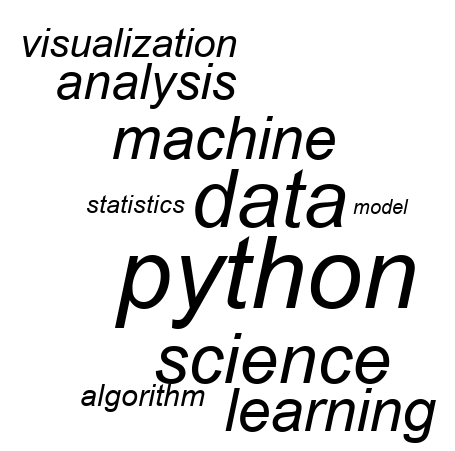
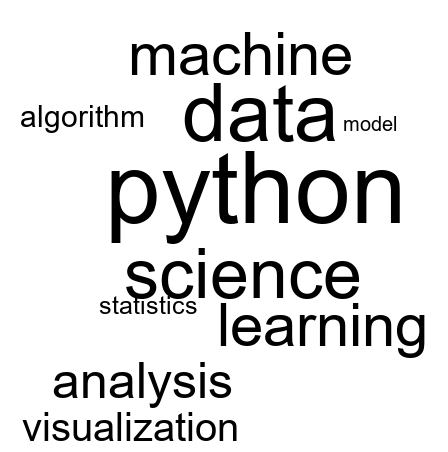
Fixed sizing to improve density of greedy layout results

Changed region(s): [[0.0312, 0.0621, 0.9688, 0.9933]]

diff --git a/truewordcloud.py b/truewordcloud.py
@@ -566,12 +566,12 @@ class TrueWordCloud:
 
                 self._last_attempts = attempt + 1
 
-                if mask_allowed is not None:
-                    mask_img_to_save = PILImage.fromarray(
-                        np.where(mask_allowed, 0, 255).astype(np.uint8),
-                        mode="L",
-                    )
-                    mask_img_to_save.save("truewordcloud_mask_allowed.png")
+                # if mask_allowed is not None:
+                #     mask_img_to_save = PILImage.fromarray(
+                #         np.where(mask_allowed, 0, 255).astype(np.uint8),
+                #         mode="L",
+                #     )
+                #     mask_img_to_save.save("truewordcloud_mask_allowed.png")
                 return placed
 
             # Record failure info (non-fatal), then scale up and retry
@@ -682,9 +682,13 @@ class TrueWordCloud:
     ) -> Optional[Tuple[float, float]]:
         """Spiral search constrained by mask (ink pixels must lie within allowed region)."""
         max_radius = int(0.75 * max(mask_allowed.shape))
-        radius_step = 5
+
         word_size = math.sqrt(word_box.width * word_box.height)
-        angle_step = max(5, min(30, int(word_size / self.angle_divisor)))
+        # Finer radial sampling for large words -> higher packing density
+        radius_step = max(1, min(5, int(word_size / 80)))
+
+        word_size = math.sqrt(word_box.width * word_box.height)
+        angle_step = max(3, min(15, int(word_size / self.angle_divisor)))
 
         for radius in range(0, max_radius, radius_step):
             for angle in range(0, 360, angle_step):
@@ -714,6 +718,11 @@ class TrueWordCloud:
     ) -> Optional[Tuple[float, float]]:
         """Spiral search without mask."""
         max_radius = 2000
+
+        word_size = math.sqrt(word_box.width * word_box.height)
+        # Finer radial sampling for large words -> higher packing density
+        radius_step = max(1, min(5, int(word_size / 80)))
+
         radius_step = 5
         word_size = math.sqrt(word_box.width * word_box.height)
         angle_step = max(5, min(30, int(word_size / self.angle_divisor)))
@@ -1041,20 +1050,66 @@ class TrueWordCloud:
 
         # Calculate bounding box
         min_x, min_y, max_x, max_y = self._calculate_bounding_box(word_boxes)
-        self._last_bbox = (min_x, min_y, max_x, max_y)
 
-        # Render
-        padding = 20
-        width = int(max_x - min_x) + 2 * padding
-        height = int(max_y - min_y) + 2 * padding
-        self._last_canvas_size = (width, height)
+        # If drawing an outline, ensure bbox includes the mask extents too
+        # if mask_outline and self._mask_used_allowed is not None:
+        #     mh, mw = self._mask_used_allowed.shape
+        #     mask_cx, mask_cy = mw // 2, mh // 2
+
+        #     # Mask extents in wordcloud coords.
+        #     # Left/top are -center; right/bottom are + (size - center)
+        #     # Use -1 on right/bottom if you want exact pixel extent; leaving it as below is fine with ceil/+1.
+        #     mask_min_x = -mask_cx
+        #     mask_min_y = -mask_cy
+        #     mask_max_x = mw - mask_cx
+        #     mask_max_y = mh - mask_cy
+
+        #     min_x = min(min_x, mask_min_x)
+        #     min_y = min(min_y, mask_min_y)
+        #     max_x = max(max_x, mask_max_x)
+        #     max_y = max(max_y, mask_max_y)
+
+        if mask_outline and self._mask_used_allowed is not None:
+            mh, mw = self._mask_used_allowed.shape
+            mask_cx, mask_cy = mw // 2, mh // 2
+
+            # Tight bbox around the allowed region (or use outline if you prefer)
+            ys, xs = np.where(self._mask_used_allowed)
+            if len(xs) > 0:
+                min_mx, max_mx = xs.min(), xs.max()
+                min_my, max_my = ys.min(), ys.max()
+
+                # Convert mask pixel coords -> wordcloud coords
+                min_x = min_mx - mask_cx
+                max_x = max_mx - mask_cx
+                min_y = min_my - mask_cy
+                max_y = max_my - mask_cy
+
+        # Canonicalize bbox to integer pixel bounds (avoids truncation + off-by-one)
+        min_xi = int(np.floor(min_x))
+        min_yi = int(np.floor(min_y))
+        max_xi = int(np.ceil(max_x))
+        max_yi = int(np.ceil(max_y))
+
+        self._last_bbox = (min_xi, min_yi, max_xi, max_yi)
+
+        base_padding = 20
+
+        # If drawing an outline, reserve extra margin so it can't be clipped
+        outline_extra = (mask_outline_width // 2) + 2 if mask_outline else 0
+        pad = base_padding + outline_extra
+
+        width = (max_xi - min_xi + 1) + 2 * pad
+        height = (max_yi - min_yi + 1) + 2 * pad
 
         image = PILImage.new("RGB", (width, height), self.background_color)
         draw = PILImageDraw.Draw(image)
 
-        offset_x = -min_x + padding
-        offset_y = -min_y + padding
-        self._last_offsets = (offset_x, offset_y, padding)
+        offset_x = -min_xi + pad
+        offset_y = -min_yi + pad
+        self._last_offsets = (offset_x, offset_y, pad)  # store actual pad used
+        self._last_canvas_size = (width, height)
+        self._last_bbox = (min_xi, min_yi, max_xi, max_yi)
 
         for wb in word_boxes:
             if self.font_path == "__PIL_DEFAULT__":
@@ -1073,26 +1128,41 @@ class TrueWordCloud:
             if outline_src is not None:
                 image = self._overlay_mask_outline(
                     image=image,
-                    mask_allowed=self._mask_used_allowed,  # <-- IMPORTANT
-                    used_bbox=(min_x, min_y, max_x, max_y),
-                    padding=padding,
+                    mask_allowed=self._mask_used_allowed,
+                    used_bbox=(min_xi, min_yi, max_xi, max_yi),
+                    padding=pad,  # <-- IMPORTANT: use pad, not base_padding
                     outline_color=mask_outline_color,
                     outline_width=mask_outline_width,
                 )
 
         return image
 
+    def save_mask_outline_png(
+        self, mask_allowed: np.ndarray, filename: str = "mask_outline_debug.png"
+    ):
+        """
+        Save the outline of the allowed mask as a PNG for visual debugging.
+        White = outline, black = background.
+        """
+        from PIL import Image as PILImage
+        from scipy.ndimage import binary_erosion
+        import numpy as np
+
+        eroded = binary_erosion(mask_allowed)
+        outline = mask_allowed ^ eroded
+        img = np.zeros(mask_allowed.shape, dtype=np.uint8)
+        img[outline] = 255
+        PILImage.fromarray(img, mode="L").save(filename)
+
     def _overlay_mask_outline(
         self,
         image: PILImage.Image,
-        mask_allowed: np.ndarray,  # <-- pass the already-built allowed mask
-        used_bbox: Tuple[float, float, float, float],
+        mask_allowed: np.ndarray,
+        used_bbox: Tuple[int, int, int, int],  # <-- make it int
         padding: int,
         outline_color=(0, 0, 0),
         outline_width: int = 1,
     ) -> PILImage.Image:
-        """Overlay a cropped (used-bbox) outline of the *mask_used* (mask_allowed) onto image."""
-
         def hex_to_rgb(hex_color: str):
             hex_color = hex_color.lstrip("#")
             if len(hex_color) == 3:
@@ -1112,19 +1182,13 @@ class TrueWordCloud:
 
         min_x, min_y, max_x, max_y = used_bbox
         width, height = image.size
-
         img_arr = np.array(image)
 
         # mask pixels -> wordcloud coords
         x_wc = xs - mask_cx
         y_wc = ys - mask_cy
 
-        # removed because it tends to delete valid outline pixels that lie just outside the word bbox, especially with larger padding
-        # inside = (x_wc >= min_x) & (x_wc <= max_x) & (y_wc >= min_y) & (y_wc <= max_y)
-        # x_wc = x_wc[inside]
-        # y_wc = y_wc[inside]
-
-        # wordcloud -> image coords
+        # wordcloud -> image coords (USE THE SAME padding you rendered with!)
         px = np.rint(x_wc - min_x + padding).astype(int)
         py = np.rint(y_wc - min_y + padding).astype(int)
 
@@ -1232,8 +1296,8 @@ def main():
         "black": 10,
     }
 
-    mask_img = PILImage.open("examples/assets/mask_heart.png").convert("L")
-    color_mask_img = PILImage.open("examples/assets/mask_heart_color.png")
+    mask_img = PILImage.open("examples/assets/cloud.png").convert("L")
+    color_mask_img = PILImage.open("examples/assets/cloud.png")
 
     print("=" * 70)
     print("TrueWordCloud Color Mask Test (Greedy)")
@@ -1242,18 +1306,18 @@ def main():
     twc_color = TrueWordCloud(
         values=values,
         method="greedy",  # try also: "square", "distance_transform"
-        base_font_size=50,
+        base_font_size=150,
         min_font_size=1,
         margin=3,
         max_attempts=20,
-        scale_factor=1.3,
+        scale_factor=1.1,
         seed=123,
-        use_mask_colors=True,  # or use_color=True depending on your naming
-        mask_shape_mode="colors",
+        use_mask_colors=False,  # or use_color=True depending on your naming
+        mask_shape_mode="no-colors",
     )
 
     image, stats = twc_color.generate_with_stats(
-        mask=color_mask_img,
+        mask=mask_img,
         mask_outline=True,
         mask_outline_color="#00AAFF",
         mask_outline_width=2,
@@ -1271,41 +1335,41 @@ def main():
     print(f"Attempts: {stats['attempts']}")
     print("Saved: truewordcloud_greedy_color_mask_test.png")
 
-    print("=" * 70)
-    print("TrueWordCloud Color Mask Test (Square)")
-    print("=" * 70)
+    # print("=" * 70)
+    # print("TrueWordCloud Color Mask Test (Square)")
+    # print("=" * 70)
 
-    twc_color = TrueWordCloud(
-        values=values,
-        method="square",  # try also: "greedy", "distance_transform"
-        base_font_size=50,
-        min_font_size=1,
-        margin=3,
-        max_attempts=20,
-        scale_factor=1.3,
-        seed=123,
-        use_mask_colors=True,  # or use_color=True depending on your naming
-        mask_shape_mode="colors",
-    )
+    # twc_color = TrueWordCloud(
+    #     values=values,
+    #     method="square",  # try also: "greedy", "distance_transform"
+    #     base_font_size=50,
+    #     min_font_size=1,
+    #     margin=3,
+    #     max_attempts=20,
+    #     scale_factor=1.3,
+    #     seed=123,
+    #     use_mask_colors=True,  # or use_color=True depending on your naming
+    #     mask_shape_mode="colors",
+    # )
 
-    image, stats = twc_color.generate_with_stats(
-        mask=color_mask_img,
-        mask_outline=True,
-        mask_outline_color="#00AAFF",
-        mask_outline_width=2,
-    )
+    # image, stats = twc_color.generate_with_stats(
+    #     mask=color_mask_img,
+    #     mask_outline=True,
+    #     mask_outline_color="#00AAFF",
+    #     mask_outline_width=2,
+    # )
 
-    image.save("truewordcloud_square_color_mask_test.png")
+    # image.save("truewordcloud_square_color_mask_test.png")
 
-    print(f"Canvas size: {stats['canvas_size']}")
-    print(f"Font range: {stats['size_range']}")
-    print(f"Method: {stats['method']}")
-    print(f"Placed words: {stats['placed_words']} / {stats['num_words']}")
-    print(f"Success: {stats['success']}")
-    print(f"Mask used size: {stats['mask_used_size']}")
-    print(f"Failure: {stats['failure']}")
-    print(f"Attempts: {stats['attempts']}")
-    print("Saved: truewordcloud_square_color_mask_test.png")
+    # print(f"Canvas size: {stats['canvas_size']}")
+    # print(f"Font range: {stats['size_range']}")
+    # print(f"Method: {stats['method']}")
+    # print(f"Placed words: {stats['placed_words']} / {stats['num_words']}")
+    # print(f"Success: {stats['success']}")
+    # print(f"Mask used size: {stats['mask_used_size']}")
+    # print(f"Failure: {stats['failure']}")
+    # print(f"Attempts: {stats['attempts']}")
+    # print("Saved: truewordcloud_square_color_mask_test.png")
 
     print("=" * 70)
     print("TrueWordCloud Color Mask Test (Distance Transform)")
@@ -1314,25 +1378,24 @@ def main():
     twc_color = TrueWordCloud(
         values=values,
         method="distance_transform",  # try also: "greedy", "square"
-        base_font_size=50,
+        base_font_size=150,
         min_font_size=1,
         margin=3,
         max_attempts=20,
-        scale_factor=1.3,
+        scale_factor=1.2,
         seed=123,
-        use_mask_colors=True,  # or use_color=True depending on your naming
-        mask_shape_mode="colors",
+        use_mask_colors=False,  # or use_color=True depending on your naming
+        mask_shape_mode="no-colors",
     )
 
     image, stats = twc_color.generate_with_stats(
-        mask=color_mask_img,
+        mask=mask_img,
         mask_outline=True,
         mask_outline_color="#00AAFF",
         mask_outline_width=2,
     )
 
-    image.save("truewordcloud_distance_transform_color_mask_test.png")
-
+    image.save("truewordcloud_distance_transform_mask_test.png")
     print(f"Canvas size: {stats['canvas_size']}")
     print(f"Font range: {stats['size_range']}")
     print(f"Method: {stats['method']}")
@@ -1341,7 +1404,7 @@ def main():
     print(f"Mask used size: {stats['mask_used_size']}")
     print(f"Failure: {stats['failure']}")
     print(f"Attempts: {stats['attempts']}")
-    print("Saved: truewordcloud_distance_transform_color_mask_test.png")
+    print("Saved: truewordcloud_distance_transform_mask_test.png")
 
 
 if __name__ == "__main__":

diff --git a/examples.py b/examples.py
@@ -485,7 +485,7 @@ def example_with_colored_mask():
         f"✓ Stats: placed {stats_square['placed_words']} / {stats_square['num_words']} words, success={stats_square['success']}"
     )
 
-    # Distrance transform layout with colored mask
+    # Distance transform layout with colored mask
     twc_color_dist = TrueWordCloud(
         values=values,
         method="distance_transform",
